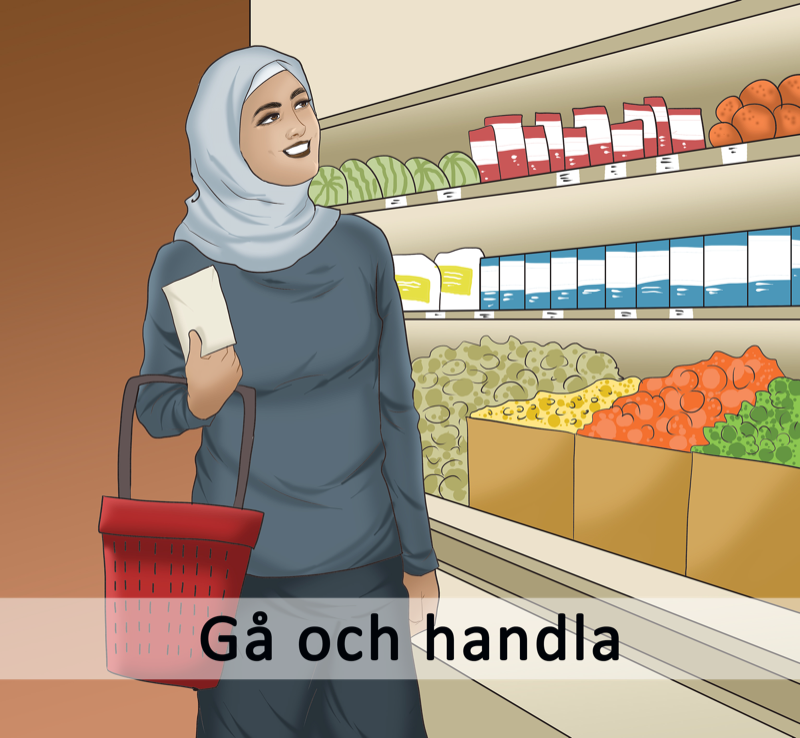
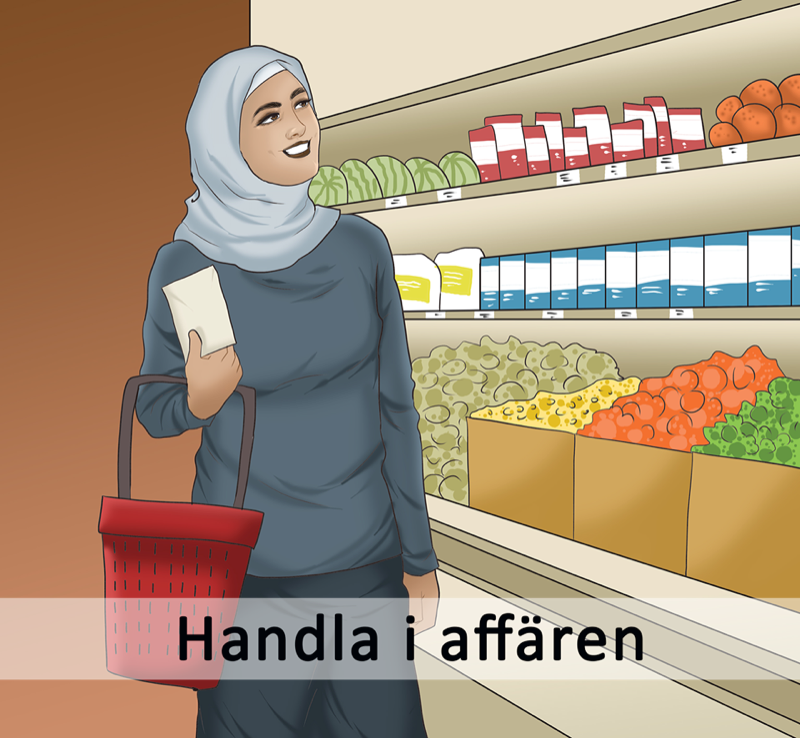
Back to Black

Changed region(s): [[0.2188, 0.8103, 0.8125, 0.9038], [0.9688, 0.3117, 1.0, 0.374], [0.8125, 0.1558, 0.8438, 0.187]]

diff --git a/main.js b/main.js
@@ -169,13 +169,14 @@ const styles = StyleSheet.create({
     justifyContent:'center',
     alignItems:'center',
     backgroundColor:Environment.startViewColor,//xxx Environment.textColor, //Environment.textColor eller ingen color beroende på om man använder titleText eller titleTextCustomFont
+    backgroundColor:Environment.startViewColor,
   },
 
   portraitStartMainTitle: {
     flex:titleTextFlexPortrait, 
     justifyContent:'center',
     alignItems:'center',
-    backgroundColor:Environment.startViewColor,//xxx Environment.textColor, //Environment.textColor eller ingen color beroende på om man använder titleText eller titleTextCustomFont
+    backgroundColor:Environment.startViewColor,
   },
 
   landscapeStartImageBlock: {
@@ -206,10 +207,6 @@ const styles = StyleSheet.create({
   },  
 
   titleText: {
-    flex:1,
-  },
-
-  titleTextCustomFont: {
     //height: sent as prop
     //fontFamily:'Futura', //'Iowan Old Style', 
     //fontWeight: 'bold',
@@ -616,7 +613,6 @@ class StartScreen extends React.Component {
               <ImageButton onImagePress={this.handleImagePress} bookNo={3} width={imageButtonImageMaxHeightLandscape}></ImageButton>
             </View>
             <View style={[styles.landscapeStartMainTitle]}>
-                <TitleTextCustomFont onTitlePress={this.handleTitlePress} source={Assets.mainTitleImage} height={titleTextHeightLandscape}/>
             </View>
             <View style={[styles.landscapeStartImageBlock]}>
               <ImageButton onImagePress={this.handleImagePress} bookNo={4} width={imageButtonImageMaxHeightLandscape}></ImageButton>
@@ -640,7 +636,6 @@ class StartScreen extends React.Component {
               <ImageButton onImagePress={this.handleImagePress} bookNo={3} width={imageButtonImageMaxHeightPortrait}></ImageButton>
             </View>
             <View style={[styles.portraitStartMainTitle]}>
-              <TitleTextCustomFont onTitlePress={this.handleTitlePress} source={Assets.mainTitleImage} height={titleTextHeightPortrait}/>
             </View>
             <View style={[styles.portraitStartImageBlock]}>
               <ImageButton onImagePress={this.handleImagePress} bookNo={4} width={imageButtonImageMaxHeightPortrait}></ImageButton>
@@ -657,7 +652,6 @@ class StartScreen extends React.Component {
   }
 }
 
-class TitleTextCustomFont extends React.Component {
   constructor(props) {
     super(props);
     this.handlePress=this.handlePress.bind(this);
@@ -676,7 +670,7 @@ class TitleTextCustomFont extends React.Component {
         activeOpacity={0.6}
       >
         <Text 
-          style={[styles.titleTextCustomFont,{height:this.props.height}]} 
+          style={[styles.titleText,{height:this.props.height}]} 
           resizeMode = {'contain'} 
         >
           {Assets.mainTitleText}
@@ -686,34 +680,8 @@ class TitleTextCustomFont extends React.Component {
   }
 }
 
-class TitleText extends React.Component {
-  constructor(props) {
-    super(props);
-    this.handlePress=this.handlePress.bind(this);
-  }
 
-  handlePress(e) {    
-    //let parent handle:     
-    this.props.onTitlePress();
-    
-  }
 
-  render() {
-    return (
-      <TouchableOpacity 
-        onPress={(e) => this.handlePress(e)} 
-        activeOpacity={0.6}
-      >
-        <Image 
-          style={[styles.titleText]} 
-          resizeMode = {'contain'} 
-          source={this.props.source}
-          >
-        </Image>
-      </TouchableOpacity>
-    )
-  }
-}
 
 class ImageButton extends React.Component {
   constructor(props) {

diff --git a/environment.js b/environment.js
@@ -19,31 +19,36 @@ const _Environments = {
     showBookTitle: true,
     statusBarHeight: 24,
     buttonColor: '#fecd0b', //red '#FF5959', yellow '#f4c053', 
-    textColor: 'black',//'#fecd0b', //red '#FF5959', yellow '#f4c053',bonasignum: '#fecd0b'
+    textColor: '#fecd0b',//'#fecd0b','#FF5959', yellow '#f4c053',bonasignum: '#fecd0b'
     mainViewColor: 'black',
-    startViewColor:'#fecd0b',
+    startViewColor: 'black',
     creditsViewColor: 'lightyellow',
-    statusBarColorLandscape: '#fecd0b',
-    statusBarColorPortrait: '#e5b909', //xxx eller black eller fecd0b
+    statusBarColorLandscape: 'black',
+    statusBarColorPortrait: 'black',
 
   },
   android: {
     platform: 'android',
-    playDelay1: 100, //milliseconds, 
-    playDelay2: 800, //milliseconds, 
+    playDelay1: 100, //milliseconds until when scroll is locked and speaker icon shown 
+    playDelay2: 800, //milliseconds until sound is played after scoll is locked
     delta: 0.2, //should not exeed 0.3
     deceleration: 'fast', 
     animateForcedScroll: true,
-    aspectRatio: (13.0/12.0), // w / h 
+    aspectRatio: (13.0/12.0), // w / h of book images
     imageSideSpace: 1.02, //add some extra space left and right of image 
     imagereduction: 0.8,
     scrollThrottle: 16, 
     gradualLoad: true,
     showLog: false,
     showBookTitle: true,
-    statusBarHeight: 24, //could maybe be 0
-    buttonColor: '#fecd0b', //red '#FF5959', yellow '#f4c053'
-    textColor: 'black',//'#fecd0b', //red '#FF5959', yellow '#f4c053',bonasignum: '#fecd0b'
+    statusBarHeight: 24,
+    buttonColor: '#fecd0b', //red '#FF5959', yellow '#f4c053', 
+    textColor: '#fecd0b',//'#fecd0b','#FF5959', yellow '#f4c053',bonasignum: '#fecd0b'
+    mainViewColor: 'black',
+    startViewColor: 'black',
+    creditsViewColor: 'lightyellow',
+    statusBarColorLandscape: 'black',
+    statusBarColorPortrait: 'black',
   }
   
 };

diff --git a/assets.js b/assets.js
@@ -1,5 +1,4 @@
 const _Assets = {
-  mainTitleImage: require('./img/maintitle.png'),
   mainTitleText: 'Så gör man',
   mainBookName: 'doctor', //number of frames in this book defines the size of the indicators
   bookOrder: [
@@ -20,7 +19,7 @@ const _Assets = {
     restaurant: 'Gå på restaurang',
     dentist: 'Jag går till tandläkaren',
     train: 'Åka tåg',
-    shop: 'Gå och handla', //eller Handla i affären 
+    shop: 'Handla i affären',
   },
   titleImages: {
     funeral: require('./img/funeralicon.png'),
@@ -105,7 +104,7 @@ const _Assets = {
       'plane2.mp3',
       'plane3.mp3',
       'plane4.mp3',
-      'xplane5.mp3',
+      'plane5.mp3',
     ],
     train:   [
       'tada.mp3', //only used while testing
